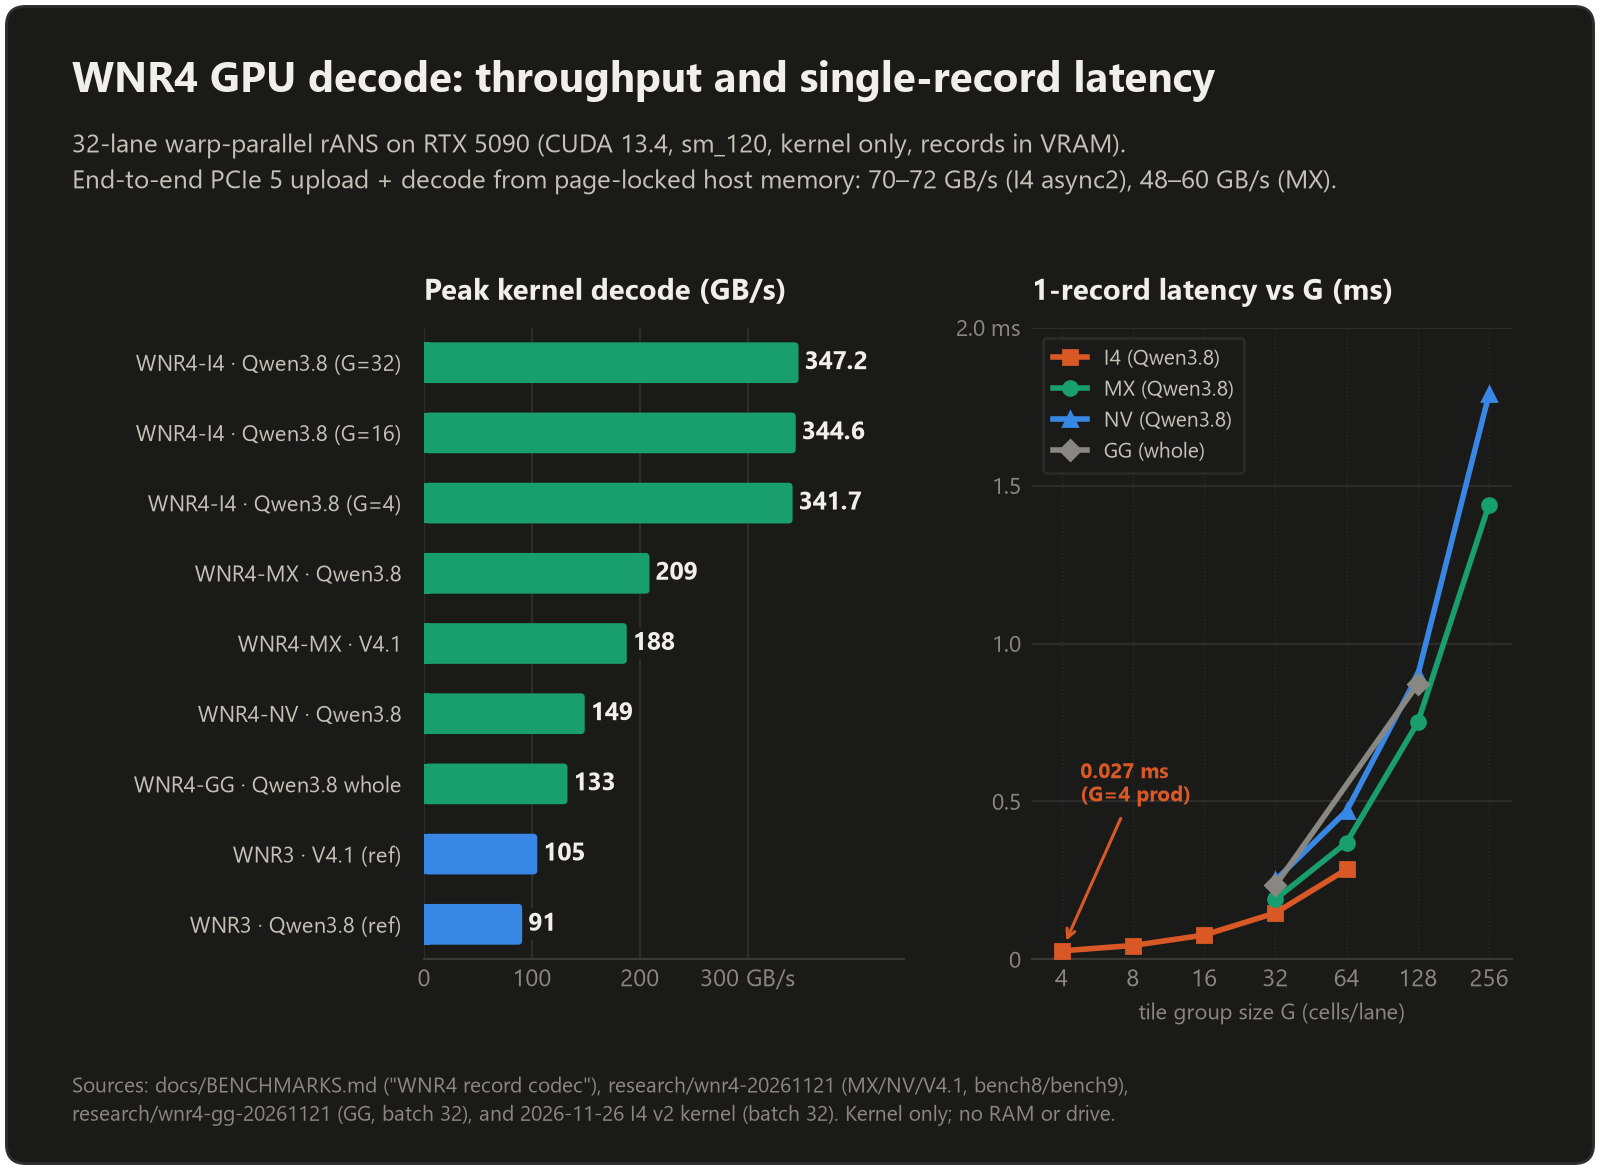
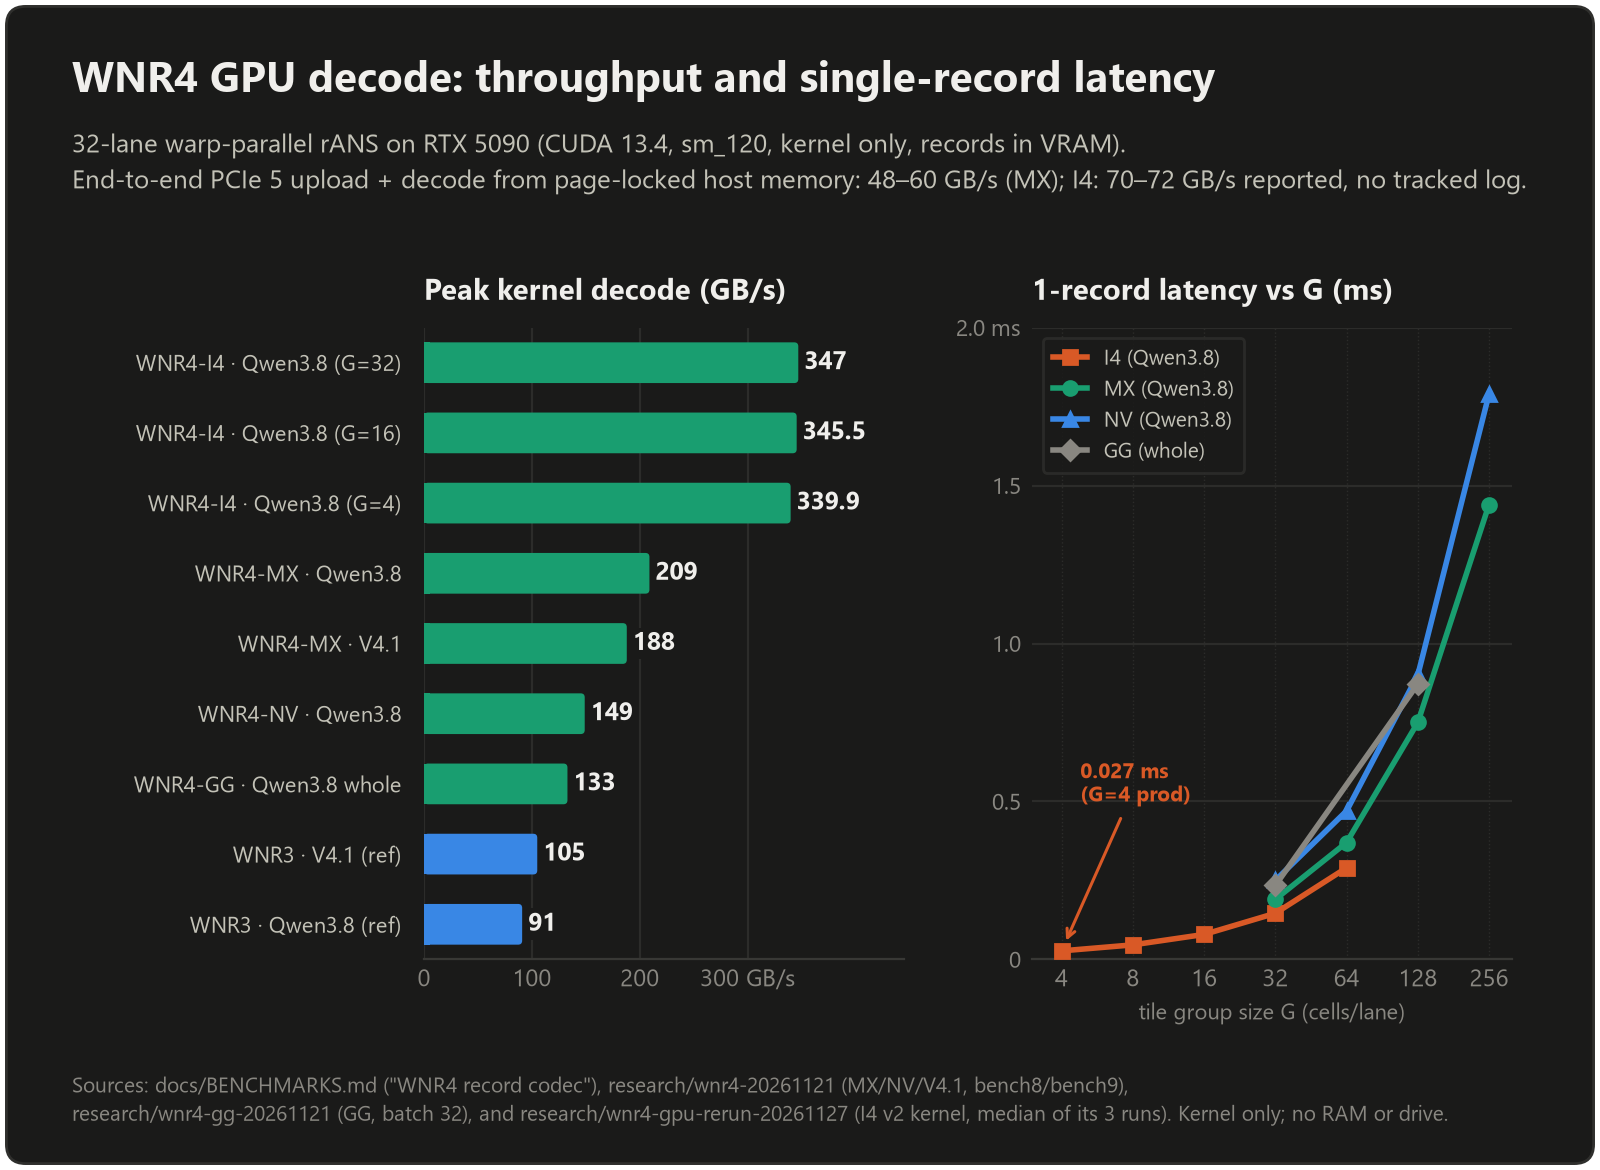
fix(charts): count a matrix CI job once per runner; redraw two charts
scripts/make_charts.py read `runs-on: ${{ matrix.os }}` of the libwex
job as a runner of its own, so a rerun drew a fifth platform named
"${{" and clipped the longest bar's label; the tracked tests chart was
still the one drawn for 139 vectors and 14 jobs.

- ci_jobs() expands a matrix job over the runners of its `os:` list and
  asserts that no unresolved expression is left; the x axis of the jobs
  panel follows the largest count.
- tests-{light,dark}.png redrawn: 157 manifest rows (20 accepted, 137
  refused) and 24 job runs per pull request (11 / 6 / 5 / 2).
- wnr4-decode-{light,dark}.png redrawn with the kind I4 figures of the
  tracked rerun (research/wnr4-gpu-rerun-20261127: 347.0 / 345.5 / 339.9
  GB/s; one record 0.027 / 0.046 / 0.079 / 0.146 / 0.290 ms, the median
  where its three runs differ); the subtitle no longer gives the I4
  end-to-end figure as measured, since it has no tracked log.

The other six charts come out byte-identical to the tracked files, and
two runs of the script give the same bytes.

diff --git a/scripts/make_charts.py b/scripts/make_charts.py
@@ -125,11 +125,12 @@ def chart_codecs(t):
 
 def chart_wnr4_decode(t):
     # docs/BENCHMARKS.md, "WNR4 record codec: container sizes, ratio and decode speed":
-    # RTX 5090 (CUDA 13.4, sm_120), records resident in VRAM, kernel only.
+    # RTX 5090 (CUDA 13.4, sm_120), records resident in VRAM, kernel only. The I4 figures are those of the rerun
+    # of 2026-11-27 (research/wnr4-gpu-rerun-20261127: batch 32, and one record; where its 3 runs differ, their median).
     peak = [
-        ('WNR4-I4 · Qwen3.8 (G=32)', 347.2, 'aqua'),
-        ('WNR4-I4 · Qwen3.8 (G=16)', 344.6, 'aqua'),
-        ('WNR4-I4 · Qwen3.8 (G=4)', 341.7, 'aqua'),
+        ('WNR4-I4 · Qwen3.8 (G=32)', 347.0, 'aqua'),
+        ('WNR4-I4 · Qwen3.8 (G=16)', 345.5, 'aqua'),
+        ('WNR4-I4 · Qwen3.8 (G=4)', 339.9, 'aqua'),
         ('WNR4-MX · Qwen3.8', 209.0, 'aqua'),
         ('WNR4-MX · V4.1', 188.0, 'aqua'),
         ('WNR4-NV · Qwen3.8', 149.0, 'aqua'),
@@ -141,7 +142,7 @@ def chart_wnr4_decode(t):
     fig = cs.figure(t, h)
     cs.header(fig, t, 'WNR4 GPU decode: throughput and single-record latency',
               '32-lane warp-parallel rANS on RTX 5090 (CUDA 13.4, sm_120, kernel only, records in VRAM).\n'
-              'End-to-end PCIe 5 upload + decode from page-locked host memory: 70–72 GB/s (I4 async2), 48–60 GB/s (MX).', h)
+              'End-to-end PCIe 5 upload + decode from page-locked host memory: 48–60 GB/s (MX); I4: 70–72 GB/s reported, no tracked log.', h)
     ax1 = cs.axes(fig, t, [0.265, 0.18, 0.30, 0.54], 'Peak kernel decode (GB/s)')
     cs.hbars(ax1, [r[0] for r in peak], [r[1] for r in peak], [t[r[2]] for r in peak], t, 445,
              lambda v: f'{v:.0f}' if v == int(v) else f'{v:.1f}', height=0.58)
@@ -153,7 +154,7 @@ def chart_wnr4_decode(t):
     ax2.grid(axis='y', color=t['grid'], linewidth=0.8)
     ax2.grid(axis='x', color=t['grid'], linewidth=0.5, linestyle=':')
     series = [
-        ('I4 (Qwen3.8)', [4, 8, 16, 32, 64], [0.027, 0.044, 0.077, 0.147, 0.285], t['orange'], 's'),
+        ('I4 (Qwen3.8)', [4, 8, 16, 32, 64], [0.027, 0.046, 0.079, 0.146, 0.290], t['orange'], 's'),
         ('MX (Qwen3.8)', [32, 64, 128, 256], [0.19, 0.37, 0.75, 1.44], t['aqua'], 'o'),
         ('NV (Qwen3.8)', [32, 64, 128, 256], [0.25, 0.47, 0.90, 1.79], t['blue'], '^'),
         ('GG (whole)', [32, 128], [0.234, 0.872], t['muted'], 'D'),
@@ -177,7 +178,7 @@ def chart_wnr4_decode(t):
     for txt in leg.get_texts():
         txt.set_color(t['ink2'])
     cs.footer(fig, t, 'Sources: docs/BENCHMARKS.md ("WNR4 record codec"), research/wnr4-20261121 (MX/NV/V4.1, bench8/bench9),\n'
-              'research/wnr4-gg-20261121 (GG, batch 32), and 2026-11-26 I4 v2 kernel (batch 32). Kernel only; no RAM or drive.', h)
+              'research/wnr4-gg-20261121 (GG, batch 32), and research/wnr4-gpu-rerun-20261127 (I4 v2 kernel, median of its 3 runs). Kernel only; no RAM or drive.', h)
     return fig
 
 
@@ -232,7 +233,13 @@ def ci_jobs():
             if re.search(r'(?m)^    if:.*workflow_dispatch', block):
                 continue
             runner = re.search(r'runs-on:\s*(\S+)', block).group(1)
-            jobs[names.get(runner, runner)].append(m.group(1))
+            if runner.startswith('$'):   # `${{ matrix.os }}`: the job runs once on each runner of its `os:` list
+                runners = re.search(r'(?m)^ +os:\s*\[([^\]]+)\]', block).group(1).split(',')
+            else:
+                runners = [runner]
+            for r in runners:
+                jobs[names.get(r.strip(), r.strip())].append(m.group(1))
+    assert not any(k.startswith('$') for k in jobs), 'a runs-on expression that ci_jobs() cannot resolve'
     return jobs
 
 
@@ -255,12 +262,13 @@ def chart_tests(t):
     ax1.tick_params(axis='y', labelsize=8.5)
     ax1.set_xticks([0, 10, 20, 30])
     ax2 = cs.axes(fig, t, [0.69, 0.47, 0.25, 0.32], 'CI jobs per pull request')
-    cs.hbars(ax2, order, [len(jobs[k]) for k in order], [t['blue']] * len(order), t, 8.5, lambda v: f'{v:.0f}',
+    most = len(jobs[order[0]])
+    cs.hbars(ax2, order, [len(jobs[k]) for k in order], [t['blue']] * len(order), t, most * 1.2, lambda v: f'{v:.0f}',
              height=0.58)
-    ax2.set_xticks([0, 2, 4, 6, 8])
+    ax2.set_xticks(range(0, most + 1, 2 if most <= 8 else 4))
     ax2.tick_params(axis='y', labelsize=8.5)
     detail = '\n'.join(f'{k}: ' + ', '.join(sorted(jobs[k])) for k in order)
-    fig.text(0.535, 0.39, detail, fontsize=7.2, color=t['ink2'], va='top', linespacing=1.6, wrap=True)
+    fig.text(0.535, 0.39, detail, fontsize=7.0, color=t['ink2'], va='top', linespacing=1.6, wrap=True)
     cs.footer(fig, t, 'Source: wex4/vectors/MANIFEST.tsv (for a refused file, the first rule it breaks, as the C '
               'reader c/wex4.h reports it) and .github/workflows/ci.yml, fuzz.yml\n(jobs without a manual-run condition).', h)
     return fig
